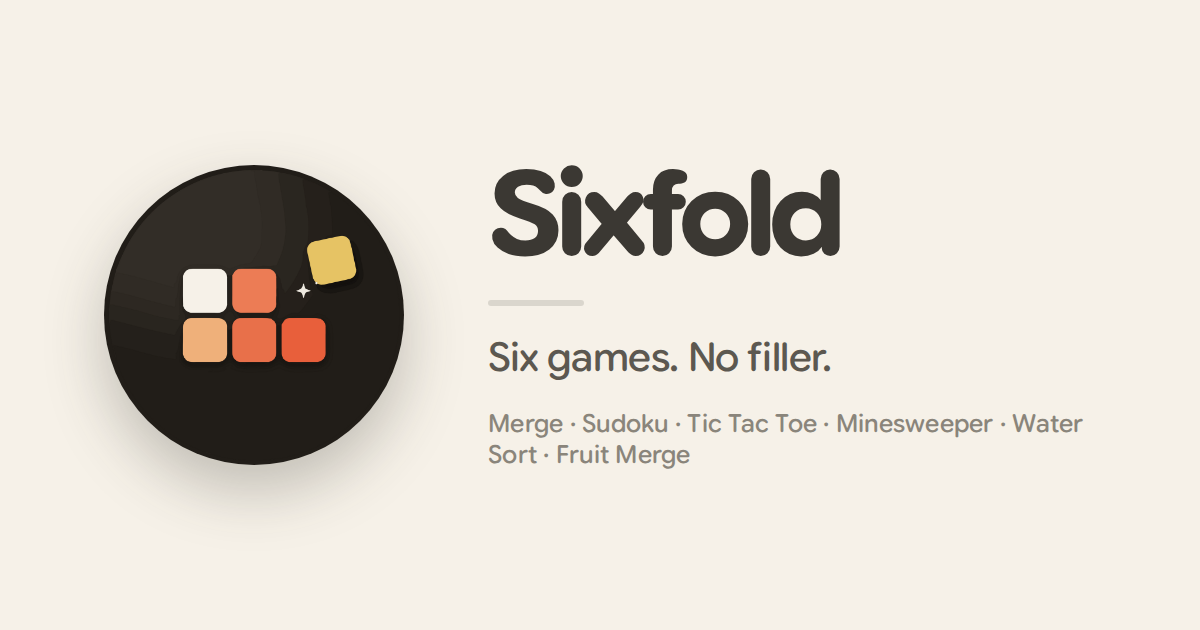
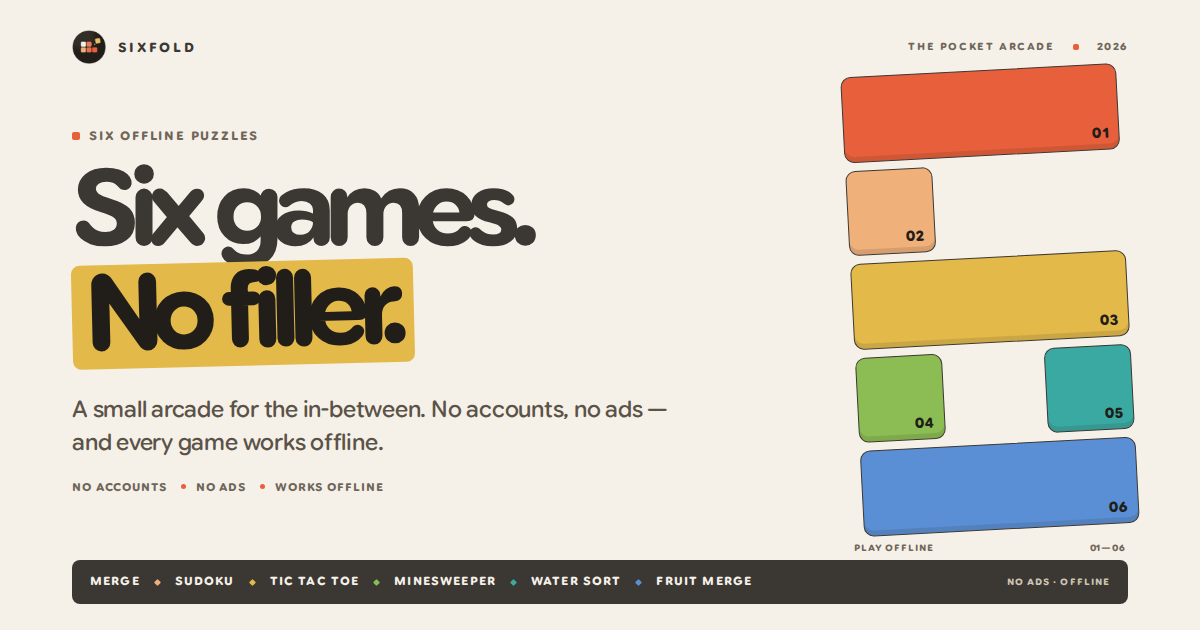
docs: refresh the share card and publication guidance
The share card now uses the hub's own six-piece collection and cream, ink and yellow system instead of a generic icon card. Record the chat-versus-GitHub boundary so announcements and working material stay out of the public repository.

🤖 Generated with Codebuff

diff --git a/index.html b/index.html
@@ -15,14 +15,14 @@
   <meta property="og:title" content="Sixfold — Six games. No filler." />
   <meta property="og:description" content="Six games. No filler. An offline pocket arcade: Merge, Sudoku, Tic Tac Toe, Minesweeper, Water Sort and Fruit Merge. No accounts, no ads." />
   <meta property="og:url" content="https://moh23rd.github.io/Sixfold/" />
-  <meta property="og:image" content="https://moh23rd.github.io/Sixfold/og-image.png?v=6.0.4" />
+  <meta property="og:image" content="https://moh23rd.github.io/Sixfold/og-image.png?v=6.0.5" />
   <meta property="og:image:width" content="1200" />
   <meta property="og:image:height" content="630" />
-  <meta property="og:image:alt" content="Sixfold — six games, no filler. A pocket arcade of six offline puzzles." />
+  <meta property="og:image:alt" content="Sixfold — Six games. No filler. Cream poster with six numbered game pieces for Merge, Sudoku, Tic Tac Toe, Minesweeper, Water Sort and Fruit Merge." />
   <meta name="twitter:card" content="summary_large_image" />
   <meta name="twitter:title" content="Sixfold — Six games. No filler." />
   <meta name="twitter:description" content="Six games. No filler. An offline pocket arcade: Merge, Sudoku, Tic Tac Toe, Minesweeper, Water Sort and Fruit Merge. No accounts, no ads." />
-  <meta name="twitter:image" content="https://moh23rd.github.io/Sixfold/og-image.png?v=6.0.4" />
+  <meta name="twitter:image" content="https://moh23rd.github.io/Sixfold/og-image.png?v=6.0.5" />
   <meta name="theme-color" content="#f6f1e8" />
   <meta name="color-scheme" content="light" />
   <meta name="format-detection" content="telephone=no" />

diff --git a/AGENTS.md b/AGENTS.md
@@ -16,3 +16,13 @@ Before writing or modifying any animations, consult these resources for motion p
 4. **Directional Easing Curves:** Use responsive `ease-out` curves like `cubic-bezier(0.2, 0.8, 0.2, 1)` for entrances and `cubic-bezier(0.4, 0, 1, 1)` for exits. Avoid generic `linear` or `ease-in-out` on UI panels.
 5. **Tap & Touch Responsiveness:** Include `-webkit-tap-highlight-color: transparent;` and `touch-action: manipulation;` on interactive controls so press animations trigger cleanly without mobile tap delay.
 6. **Clean Frame Loops & Reduced Motion:** Drive JS-driven motion with `requestAnimationFrame` (never `setInterval` for visual movement), clean up animation frames/listeners on completion, and respect `prefers-reduced-motion`.
+
+## Publication Boundaries
+
+Keep the public repository focused on the product and the material users need to build, run and understand it.
+
+- **Chat-only material** stays out of GitHub unless the user explicitly asks for it there: announcements and social copy, release checklists, review notes, work-in-progress plans, status updates, temporary screenshots, test output and agent scratch files.
+- **Never commit or upload** secrets, signing keys, personal data, local absolute paths, raw logs, duplicate binaries or generated test artefacts.
+- **GitHub carries** source, tests, CI configuration, user-facing documentation, and intentional release assets. Do not add a branch, tag, PR, Release or repository file just to move chat material around.
+- **Keep it tidy:** one focused PR per change, delete merged working branches, and do not attach the same asset in more than one place unless a consumer needs it.
+- If a chat-only deliverable needs a reproducible asset, commit the generator and the shipped asset only; leave the copy, notes and discussion in chat.

diff --git a/docs/ASSETS.md b/docs/ASSETS.md
@@ -161,12 +161,13 @@ npm run assets:icons
 npm run assets:og
 ```
 
-`scripts/build-og-image.mjs` draws a 1200×630 card — the icon in a circle of the
-plate colour, the wordmark in Google Sans Flex, the tagline and the six game
-names — which is the size `index.html` declares in `og:image:width` and
-`og:image:height`. Bump the `?v=` on `og:image` and `twitter:image` when the
-card changes. The iOS launch images use `icons/icon-1024.png`, so they follow
-the launcher too (`npm run assets:ios-splash`).
+`scripts/build-og-image.mjs` draws a 1200×630 landscape of the hub — cream
+paper, the small masthead, the headline and yellow “No filler” mark, the six
+numbered collection pieces, and the game ticker. It is the size `index.html`
+declares in `og:image:width` and `og:image:height`. Bump the `?v=` on
+`og:image` and `twitter:image` when the card changes. The iOS launch images use
+`icons/icon-1024.png`, so they follow the launcher too
+(`npm run assets:ios-splash`).
 
 ## Adaptive icon guard
 
